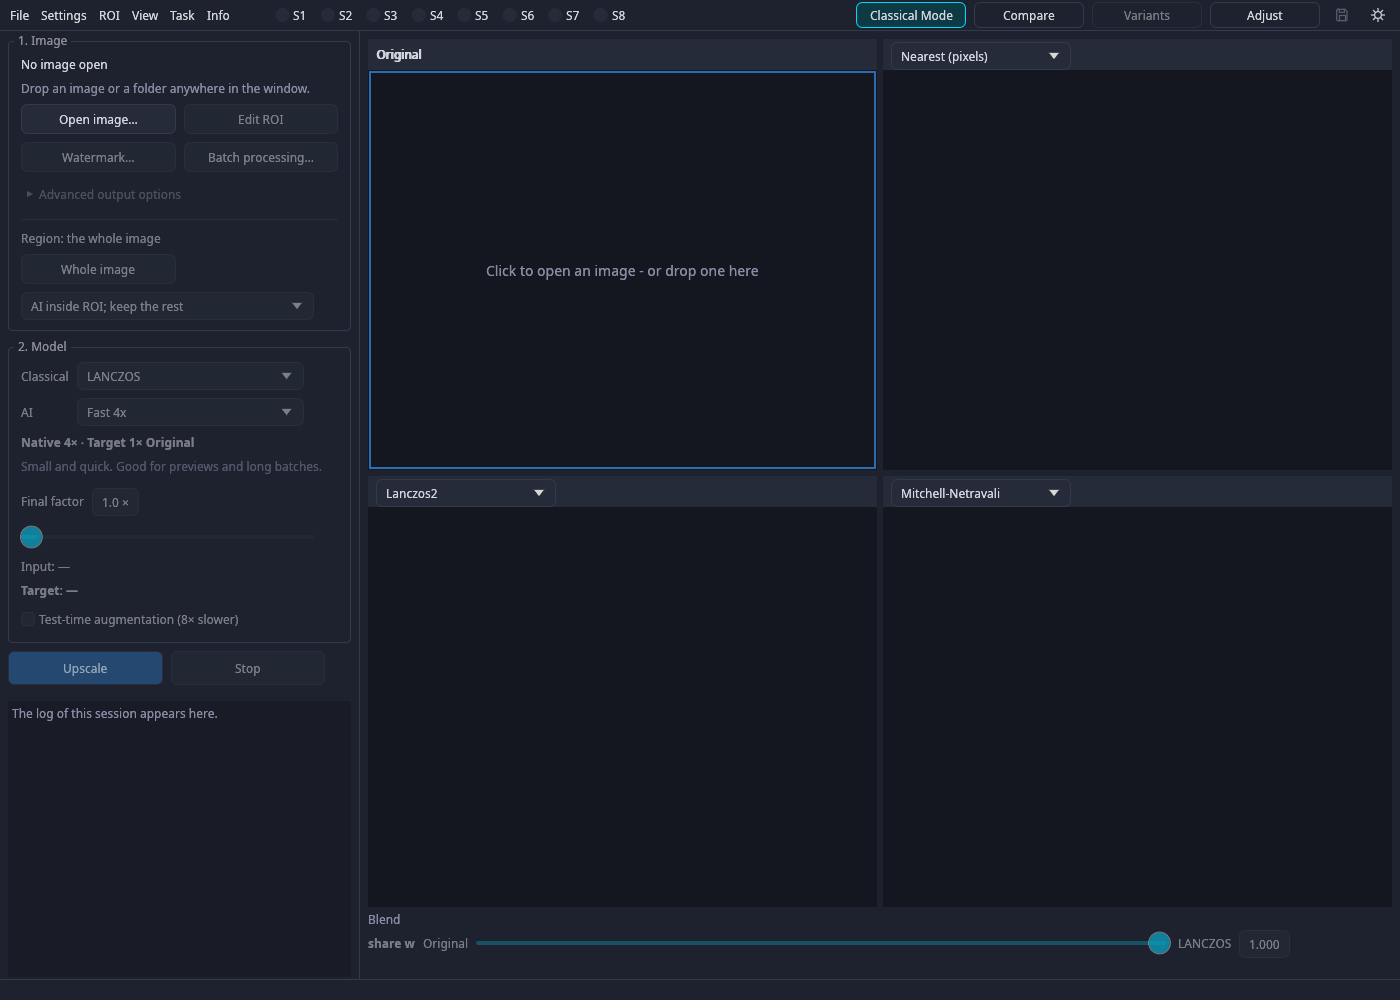
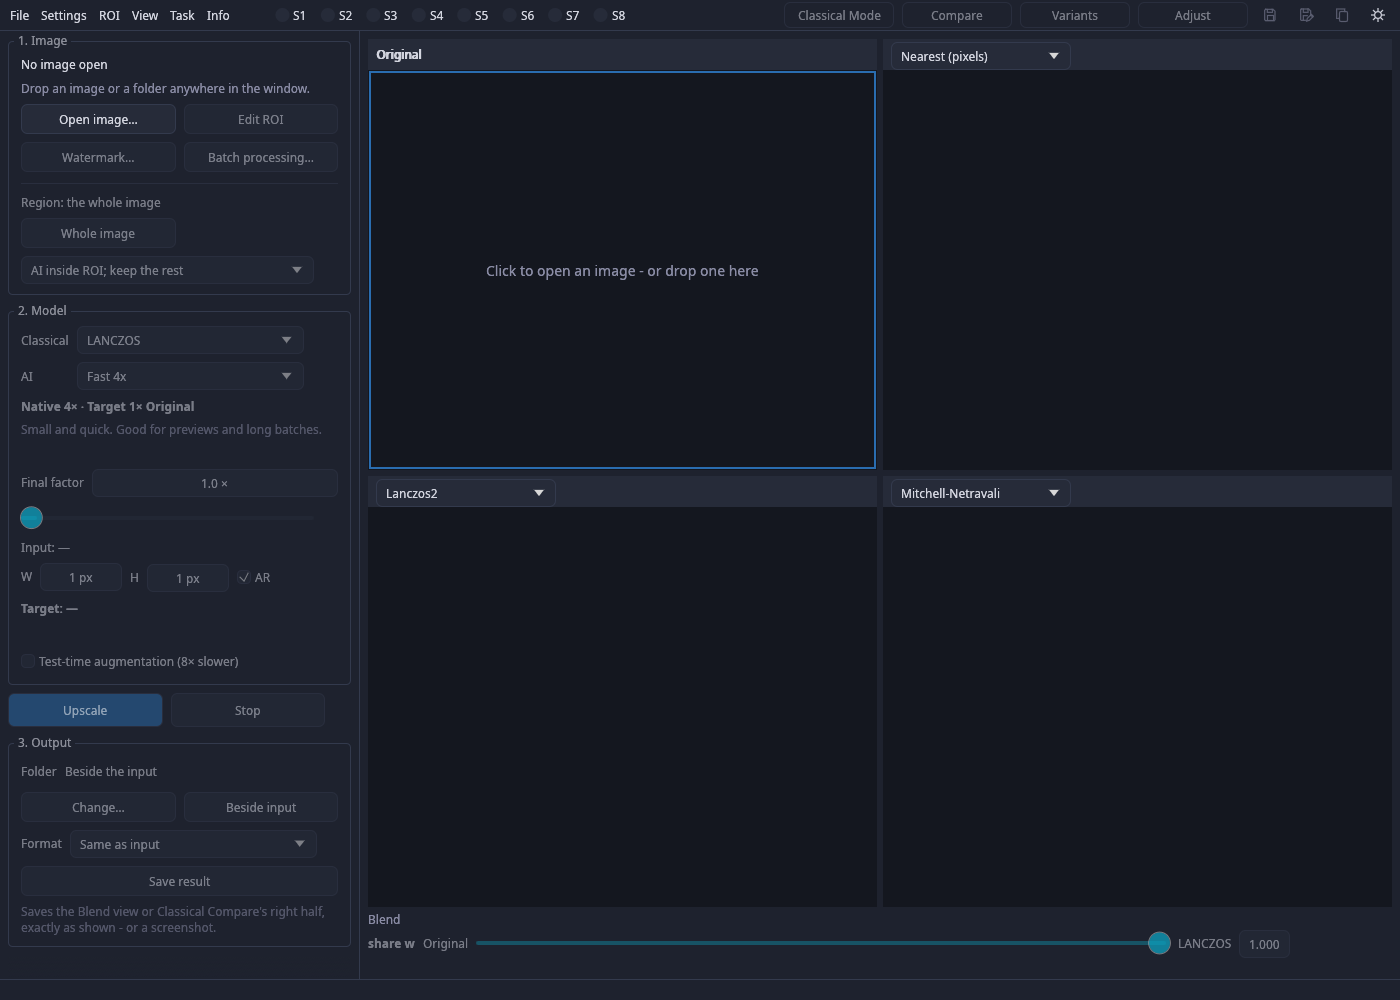
Refresh UpScape 1.08 downloads, exact sizing and Linux screenshot
Describe the accepted W/H/AR controls, 128 MP Batch previews and preserved views alongside Save as and Copy. Replace the screenshot with the actual current blank Linux Rust window.

diff --git a/README.md b/README.md
@@ -6,9 +6,9 @@ before saving. Microscopy and object images are among its uses.
 
 **[Download UpScape 1.08](https://github.com/WaveboSF/UpScape/releases/tag/v1.08)**
 
-![UpScape 1.08 on Linux: empty workspace](docs/images/upscape-1.08-linux.png)
+![UpScape 1.08 on Linux: current empty workspace with W/H and AR controls](docs/images/upscape-1.08-linux.png)
 
-*UpScape 1.08 on Linux — the empty workspace before opening an image.*
+*UpScape 1.08 on Linux — the current empty workspace, including exact-size W/H and AR controls.*
 
 | Platform | Download | Checksum |
 |---|---|---|
@@ -42,8 +42,12 @@ at least eight verified physical CPU cores are required and a warning is shown.
   formats and filename templates.
 - A larger watermark editor with installed fonts, size/position/rotation controls,
   color palettes and direct manipulation; improved window-state handling.
-
 - A compact Image Adjustments window and setup that updates an existing installation.
+- Exact output width and height with AR on/off, within 1–4× of the current
+  image or crop; one optional pixel target for all Batch files.
+- Batch previews for images up to 128 megapixels, with the current Classical,
+  AI or Compare view preserved when opening and starting Batch.
+- Save, Save as and Copy toolbar icons, with reliable loaded-image access.
 
 See the [1.08 release notes](docs/RELEASE_NOTES_1.08.md) for download details.
 

diff --git a/docs/RELEASE_NOTES_1.08.md b/docs/RELEASE_NOTES_1.08.md
@@ -17,6 +17,11 @@ components and next steps; window-state handling has also improved.
 - Automatic Tile adapts GPU tiles to available memory and remembers successful sizes.
 - Compact Image Adjustments with stable window geometry.
 - Setup offers an update of the existing installation and quietly supports offline use.
+- Exact output width and height with AR on/off, within 1–4× of the current
+  image or crop; optional pixel targets shared by all Batch files.
+- Batch previews up to 128 megapixels, retaining the current Classical, AI or
+  Compare view and the prepared processing settings.
+- Save, Save as and Copy toolbar icons, available as soon as an image is open.
 
 ## Downloads
 
